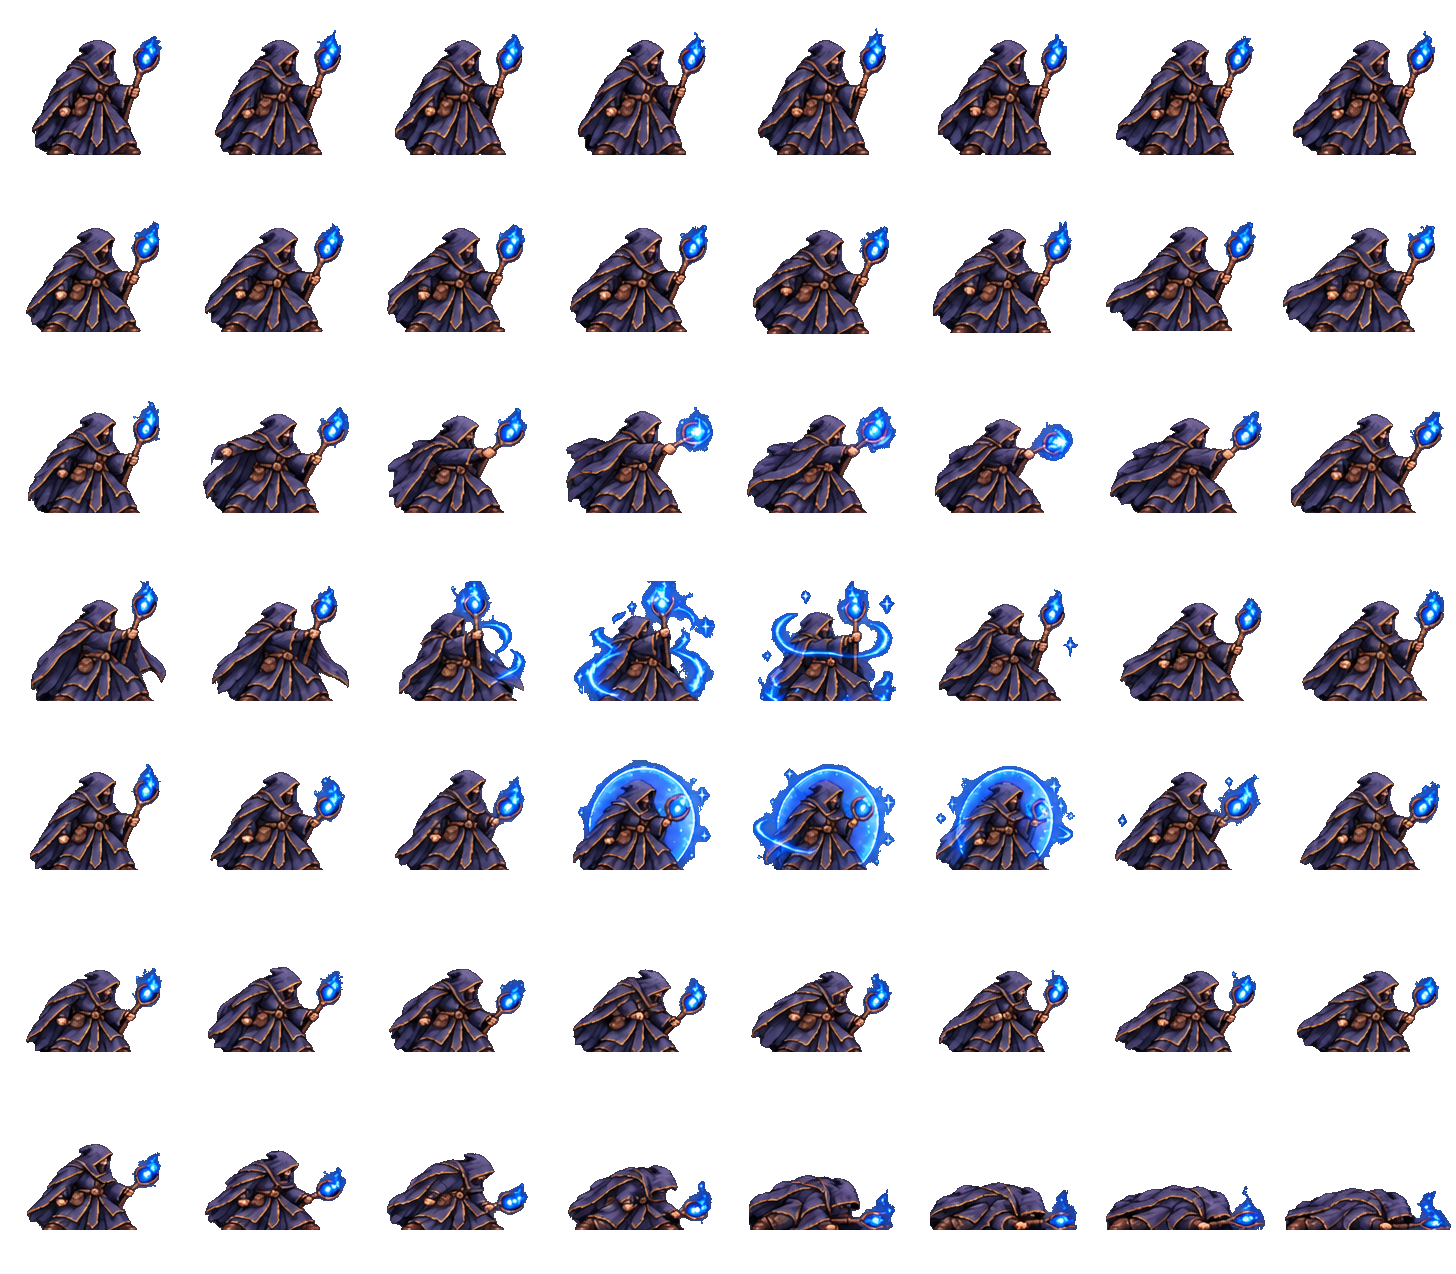
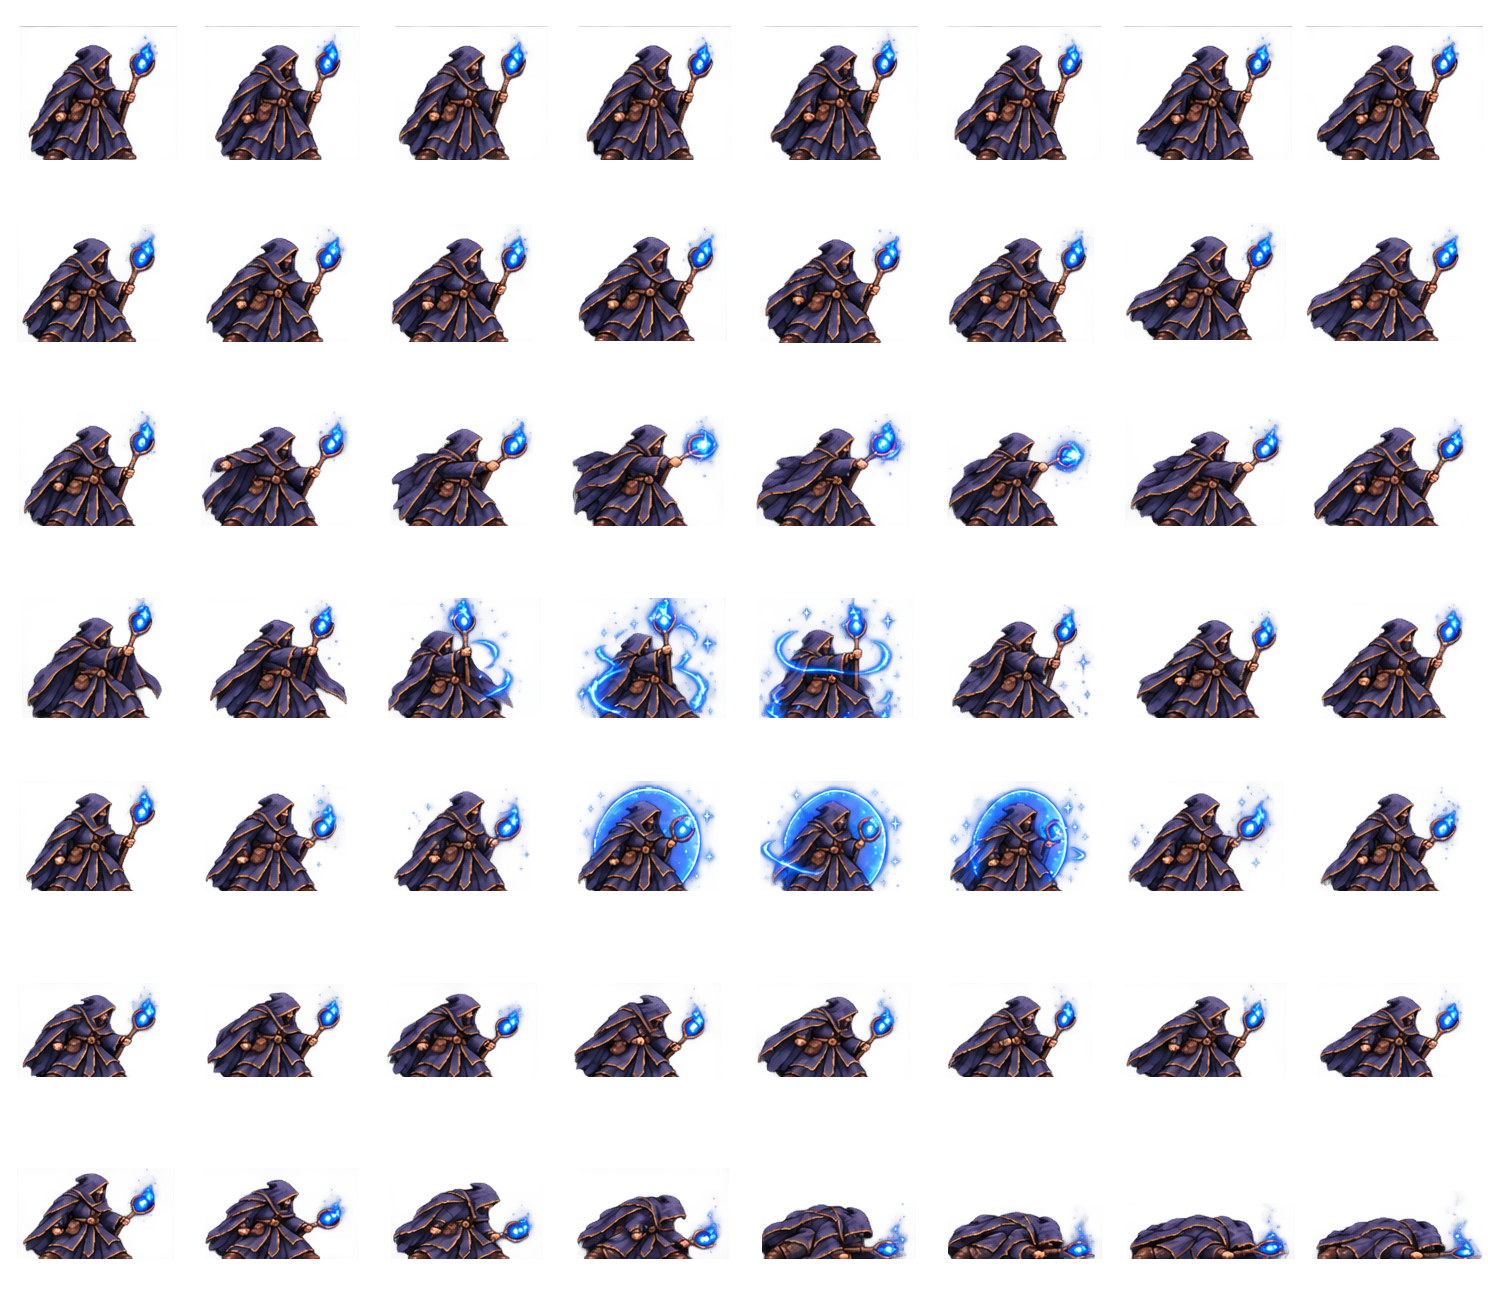
fix: keep the source alpha when cutting a cut-out sheet
Thresholding alpha at 40 turned the mage's soft barrier and cast glow into a ragged crust: pixels at alpha 41-80 were painted fully opaque, so a faint wash came out as chunky blue blobs. The cut now carries the source alpha through and the threshold is used only to find content and debris.

Small-component cleanup is limited to filled sheets as well. On a cut-out sheet the frame number falls outside the cut, and the rule that removed small pieces near a cell edge was punching holes where the spell sparkles are; on a filled sheet a frame number also has to sit near the horizontal centre to be dropped.

diff --git a/src/ui/heroSprite.ts b/src/ui/heroSprite.ts
@@ -25,7 +25,7 @@ interface HeroSheet {
 
 const HERO_SHEETS: Record<string, HeroSheet> = {
   warrior: { url: warriorSheet, clips: ['idle', 'battle', 'attack', 'power', 'block', 'hurt', 'death'], frames: 8, cell: 162, body: 107 },
-  mage: { url: mageSheet, clips: ['idle', 'battle', 'attack', 'power', 'block', 'hurt', 'death'], frames: 8, cell: 182, body: 127 },
+  mage: { url: mageSheet, clips: ['idle', 'battle', 'attack', 'power', 'block', 'hurt', 'death'], frames: 8, cell: 186, body: 134 },
   assassin: { url: assassinSheet, clips: ['idle'], frames: 8, cell: 182, body: 166 },
   paladin: { url: paladinSheet, clips: ['idle'], frames: 8, cell: 188, body: 180 },
   berserk: { url: berserkSheet, clips: ['idle'], frames: 8, cell: 194, body: 186 },

diff --git a/tools/hero-sheet.py b/tools/hero-sheet.py
@@ -183,19 +183,30 @@ def read_grid():
             x0, x1 = bounds(vs, vcand, c)
             sub = rgb[y0:y1, x0:x1]
             # Фон ячейки бывает прозрачным (тогда маска уже готова) или залитым: во втором случае заливаем от краёв.
-            a = rgba[y0:y1, x0:x1, 3] > ALPHA if CUTOUT else ~flood_bg(sub)
-            h = y1 - y0
-            lab, _ = ndimage.label(a)
-            for i, sl in enumerate(ndimage.find_objects(lab), 1):
-                area = int((lab[sl] == i).sum())
-                # номер кадра (он стоит у края ячейки — снизу или в промежутке над ней) и пыль генератора
-                if area < 60 or (area < 500 and (sl[0].start > h - 16 or sl[0].stop < 16)):
-                    a[sl][lab[sl] == i] = False
+            src_a = rgba[y0:y1, x0:x1, 3]
+            a = src_a > ALPHA if CUTOUT else ~flood_bg(sub)
+            h, w = y1 - y0, x1 - x0
+            drop = np.zeros_like(a)
+            # Чистим только залитый лист: там в ячейке лежит номер кадра и пыль генератора. У вырезанного
+            # номер остаётся за резом, а всё внутри — рисунок: искорки вокруг заклинания как раз мелкие,
+            # и «мелкое у края» выкусывало их дырками.
+            if not CUTOUT:
+                lab, _ = ndimage.label(a)
+                for i, sl in enumerate(ndimage.find_objects(lab), 1):
+                    area = int((lab[sl] == i).sum())
+                    mid = (sl[1].start + sl[1].stop) / 2
+                    number = area < 500 and sl[0].start > h - 16 and abs(mid - w / 2) < w * 0.2
+                    if area < 60 or number:
+                        drop[sl] |= lab[sl] == i
+            a &= ~drop
             if not a.any():
                 raise SystemExit(f'ячейка {r}:{c} вышла пустой — проверь --inset')
-            px = np.dstack([sub, a.astype(np.uint8) * 255]).astype(np.uint8)
-            px[~a] = 0
-            ys, xs = np.nonzero(a)
+            # Прозрачность берём из исходника как есть: порог годится искать мусор, но не рисовать край —
+            # обрезанное по нему мягкое свечение превращается в рваную корку. Выкинутое гасим с запасом.
+            out_a = np.where(ndimage.binary_dilation(drop, iterations=3), 0, src_a) if CUTOUT else a.astype(np.uint8) * 255
+            px = np.dstack([sub, out_a]).astype(np.uint8)
+            px[out_a == 0] = 0
+            ys, xs = np.nonzero(out_a > 8)
             frames.append(px[ys.min():ys.max() + 1, xs.min():xs.max() + 1])
         out.append(frames)
     return out
